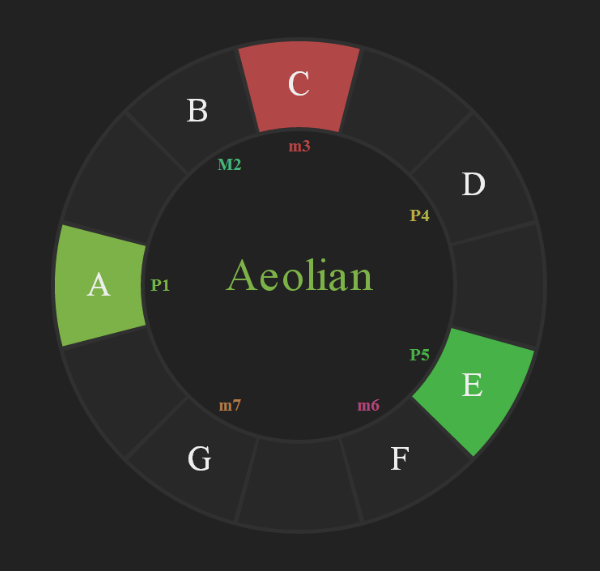
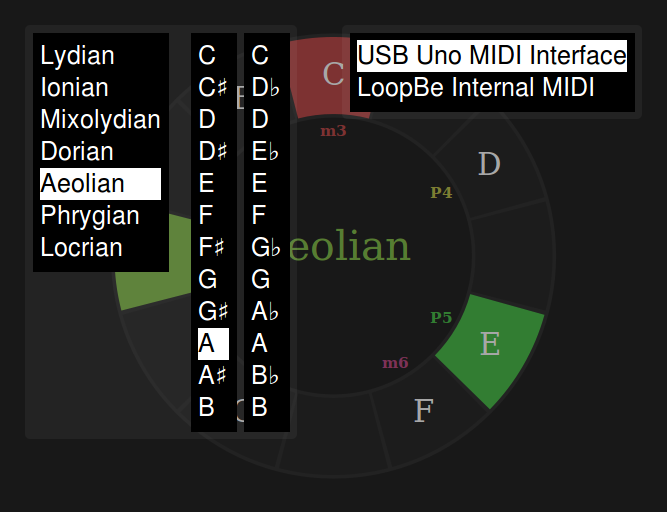
Change order of notes in menu

diff --git a/js/pitchspace.js b/js/pitchspace.js
@@ -1,4 +1,4 @@
-// Generated by CoffeeScript 1.7.1
+// Generated by CoffeeScript 1.4.0
 (function() {
   var App, F, INITMODE, INITTONIC, MODES, MidiInstance, S, TONICS, colorGen, decodeMidiEvent, getNoteName, getTeoriaScale, noteLabelToInt,
     __indexOf = [].indexOf || function(item) { for (var i = 0, l = this.length; i < l; i++) { if (i in this && this[i] === item) return i; } return -1; };
@@ -70,20 +70,20 @@
   };
 
   MidiInstance = (function() {
+
     function MidiInstance(access) {
+      var _this = this;
       this.inputs = access != null ? access.inputs() : void 0;
       this.userCallback = null;
       this.selectedInput = null;
       this.isValid = access !== null;
-      this.onmidimessage = (function(_this) {
-        return function(event) {
-          var note;
-          note = decodeMidiEvent(event);
-          if (_this.userCallback !== null && note.isNoteEvent) {
-            return _this.userCallback(note);
-          }
-        };
-      })(this);
+      this.onmidimessage = function(event) {
+        var note;
+        note = decodeMidiEvent(event);
+        if (_this.userCallback !== null && note.isNoteEvent) {
+          return _this.userCallback(note);
+        }
+      };
     }
 
     MidiInstance.prototype.selectDevice = function(id) {
@@ -217,8 +217,8 @@
     };
 
     View.prototype.drawSettingsPage = function(modeList, tonicList, devicesList, selectedMode, selectedTonic, selectedDev) {
-      var LISTSIZE, attachClickHandler, drawSelection, ulify;
-      LISTSIZE = 13;
+      var attachClickHandler, drawSelection, listsize, ulify;
+      listsize = tonicList.length / 2;
       ulify = function(data) {
         return function(sel) {
           var context;
@@ -234,8 +234,8 @@
           var lis;
           lis = selector.selectAll("li");
           lis.attr("class", "list-item");
-          if (index >= (i * LISTSIZE) && index < ((i + 1) * LISTSIZE)) {
-            return d3.select(lis[0][index % LISTSIZE]).attr("class", "selected list-item");
+          if (index >= (i * listsize) && index < ((i + 1) * listsize)) {
+            return d3.select(lis[0][index % listsize]).attr("class", "selected list-item");
           }
         });
       };
@@ -243,14 +243,14 @@
         return selectors.forEach(function(selector, selIndex) {
           return selector.selectAll(".list-item").on("click", function(text, i) {
             var item;
-            item = selIndex * LISTSIZE + i;
+            item = selIndex * listsize + i;
             drawSelection(selectors, item);
             return handler(label, item);
           });
         });
       };
-      layers.settingsTonics[0].call(ulify(tonicList.slice(0, LISTSIZE)));
-      layers.settingsTonics[1].call(ulify(tonicList.slice(LISTSIZE, LISTSIZE * 2)));
+      layers.settingsTonics[0].call(ulify(tonicList.slice(0, listsize)));
+      layers.settingsTonics[1].call(ulify(tonicList.slice(listsize, listsize * 2)));
       layers.settingsMode.call(ulify(modeList));
       layers.settingsDevices.call(ulify(devicesList));
       drawSelection([layers.settingsDevices], selectedDev);
@@ -265,47 +265,46 @@
     };
 
     View.prototype.drawAppPage = function(modeLabel, tonicLabel, scale) {
-      var degLabelR;
+      var degLabelR,
+        _this = this;
       degLabelR = scaling.innerR * 0.9;
       layers.attack.selectAll("path").remove();
       layers.release.selectAll("path").remove();
       layers.sustain.selectAll("path").remove();
       layers.keyName.select("text").text(modeLabel).style("fill", this.noteColors(scale[0].step));
-      (function(_this) {
-        return (function() {
-          var degreeName, sel;
-          degreeName = function(note, i) {
-            var degree;
-            degree = ['i', 'ii', 'iii', 'iv', 'v', 'vi', 'vii'][i];
-            switch (note.triad) {
-              case "major":
-                return degree.toUpperCase();
-              case "dim":
-                return degree + "\u00B0";
-              case "aug":
-                return degree.toUpperCase() + "+";
-              case "minor":
-                return degree;
-              default:
-                return "?";
-            }
-          };
-          sel = layers.degreeLabels.selectAll("text").data(scale, function(note, i) {
-            return i;
-          });
-          sel.enter().append("text").attr("dy", "0.3em");
-          sel.text(function(note) {
-            return note.triad;
-          }).transition().attr("x", function(note) {
-            return degLabelR * Math.cos(getNoteAngle(note.step));
-          }).attr("y", function(note) {
-            return degLabelR * Math.sin(getNoteAngle(note.step));
-          }).style("fill", function(note) {
-            return _this.noteColors(note.step);
-          });
-          return sel.exit().remove();
+      (function() {
+        var degreeName, sel;
+        degreeName = function(note, i) {
+          var degree;
+          degree = ['i', 'ii', 'iii', 'iv', 'v', 'vi', 'vii'][i];
+          switch (note.triad) {
+            case "major":
+              return degree.toUpperCase();
+            case "dim":
+              return degree + "\u00B0";
+            case "aug":
+              return degree.toUpperCase() + "+";
+            case "minor":
+              return degree;
+            default:
+              return "?";
+          }
+        };
+        sel = layers.degreeLabels.selectAll("text").data(scale, function(note, i) {
+          return i;
         });
-      })(this)();
+        sel.enter().append("text").attr("dy", "0.3em");
+        sel.text(function(note) {
+          return note.triad;
+        }).transition().attr("x", function(note) {
+          return degLabelR * Math.cos(getNoteAngle(note.step));
+        }).attr("y", function(note) {
+          return degLabelR * Math.sin(getNoteAngle(note.step));
+        }).style("fill", function(note) {
+          return _this.noteColors(note.step);
+        });
+        return sel.exit().remove();
+      })();
       return (function() {
         var sel;
         scale = getScale(modeLabel, tonicLabel);
@@ -323,17 +322,16 @@
     };
 
     View.prototype.drawActiveNotes = function(notes) {
-      var sel;
+      var sel,
+        _this = this;
       sel = layers.sustain.selectAll("path").data(notes, function(note) {
         return note;
       });
       sel.enter().append("path").attr("d", function(note) {
         return makeNoteArc(note);
-      }).attr("fill", (function(_this) {
-        return function(note) {
-          return _this.noteColors(note);
-        };
-      })(this));
+      }).attr("fill", function(note) {
+        return _this.noteColors(note);
+      });
       return sel.exit().remove();
     };
 
@@ -365,9 +363,10 @@
 
   MODES = ["Lydian", "Ionian", "Mixolydian", "Dorian", "Aeolian", "Phrygian", "Locrian"];
 
-  TONICS = ["C", "G", "D", "A", "E", "B", "F" + S, "G" + F, "D" + F, "A" + F, "E" + F, "B" + F, "F", "A", "E", "B", "F" + S, "C" + S, "G" + S, "D" + S, "E" + F, "B" + F, "F", "C", "G", "D"];
+  TONICS = ["C", "C" + S, "D", "D" + S, "E", "F", "F" + S, "G", "G" + S, "A", "A" + S, "B", "C", "D" + F, "D", "E" + F, "E", "F", "G" + F, "G", "A" + F, "A", "B" + F, "B"];
 
   App = (function() {
+
     function App(view, midi) {
       var activeNotes, devices, drawApp, selected;
       activeNotes = [];

diff --git a/README.md b/README.md
@@ -6,7 +6,4 @@ http://ealang.github.io/pitchspace-vis-webmidi/
 
 To connect a MIDI keyboard, you must either be lucky enough to be running a browser that supports the [Web MIDI API](http://www.w3.org/TR/webmidi/), or have the [Jazz-Plugin](http://jazz-soft.net/) installed on your browser.
 
-#screenshots
-
-![ScreenShot](https://raw.githubusercontent.com/ealang/pitchspace-vis-webmidi/master/ss1.png)
-![ScreenShot](https://raw.githubusercontent.com/ealang/pitchspace-vis-webmidi/master/ss2.png)
+[![ScreenShot](https://raw.githubusercontent.com/ealang/pitchspace-vis-webmidi/master/ss1.png)](http://ealang.github.io/pitchspace-vis-webmidi/)
